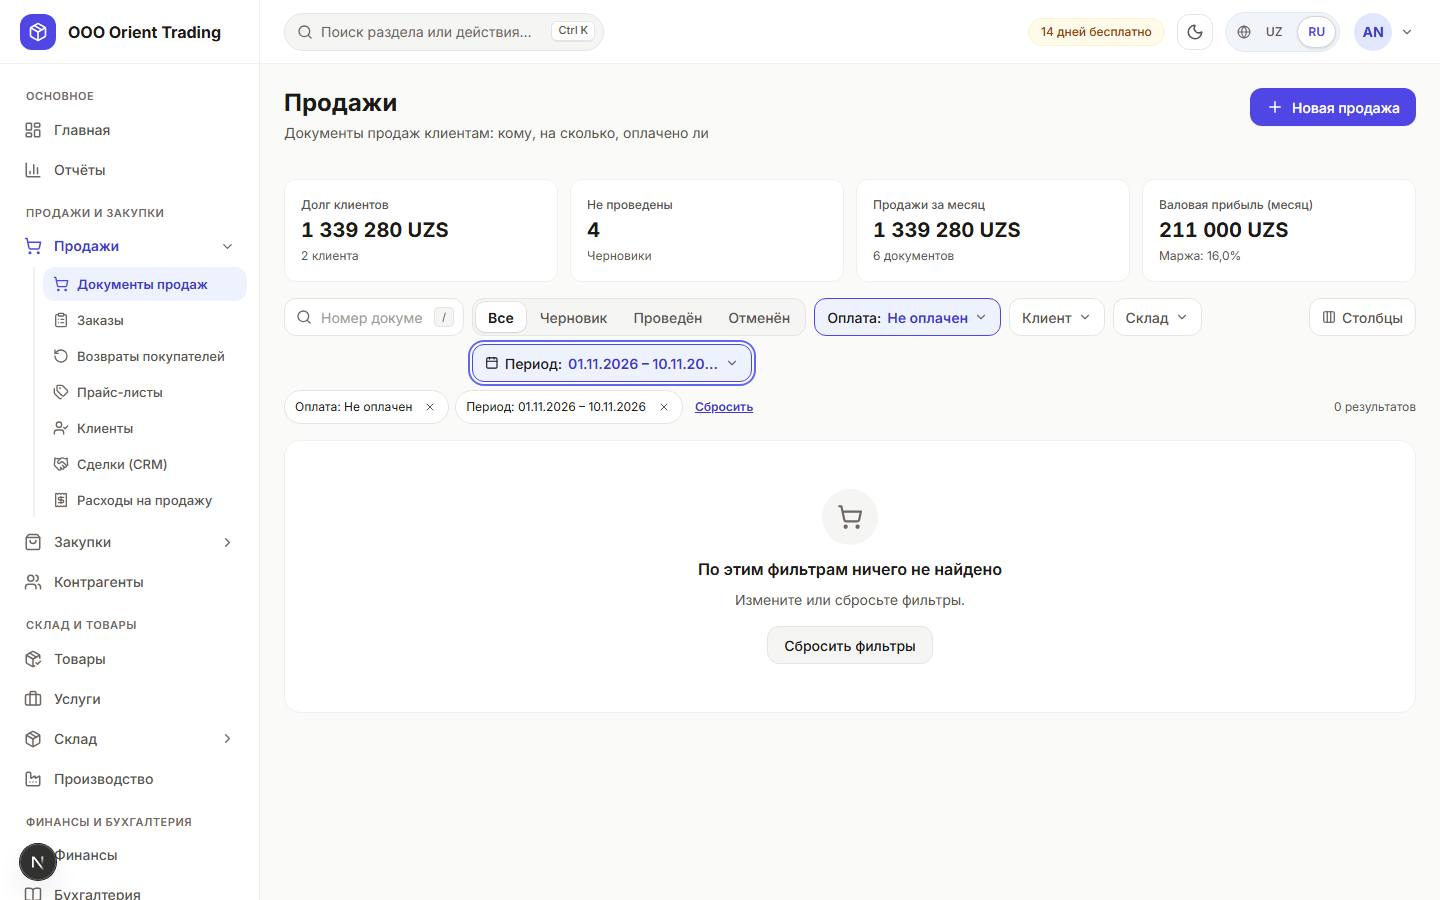
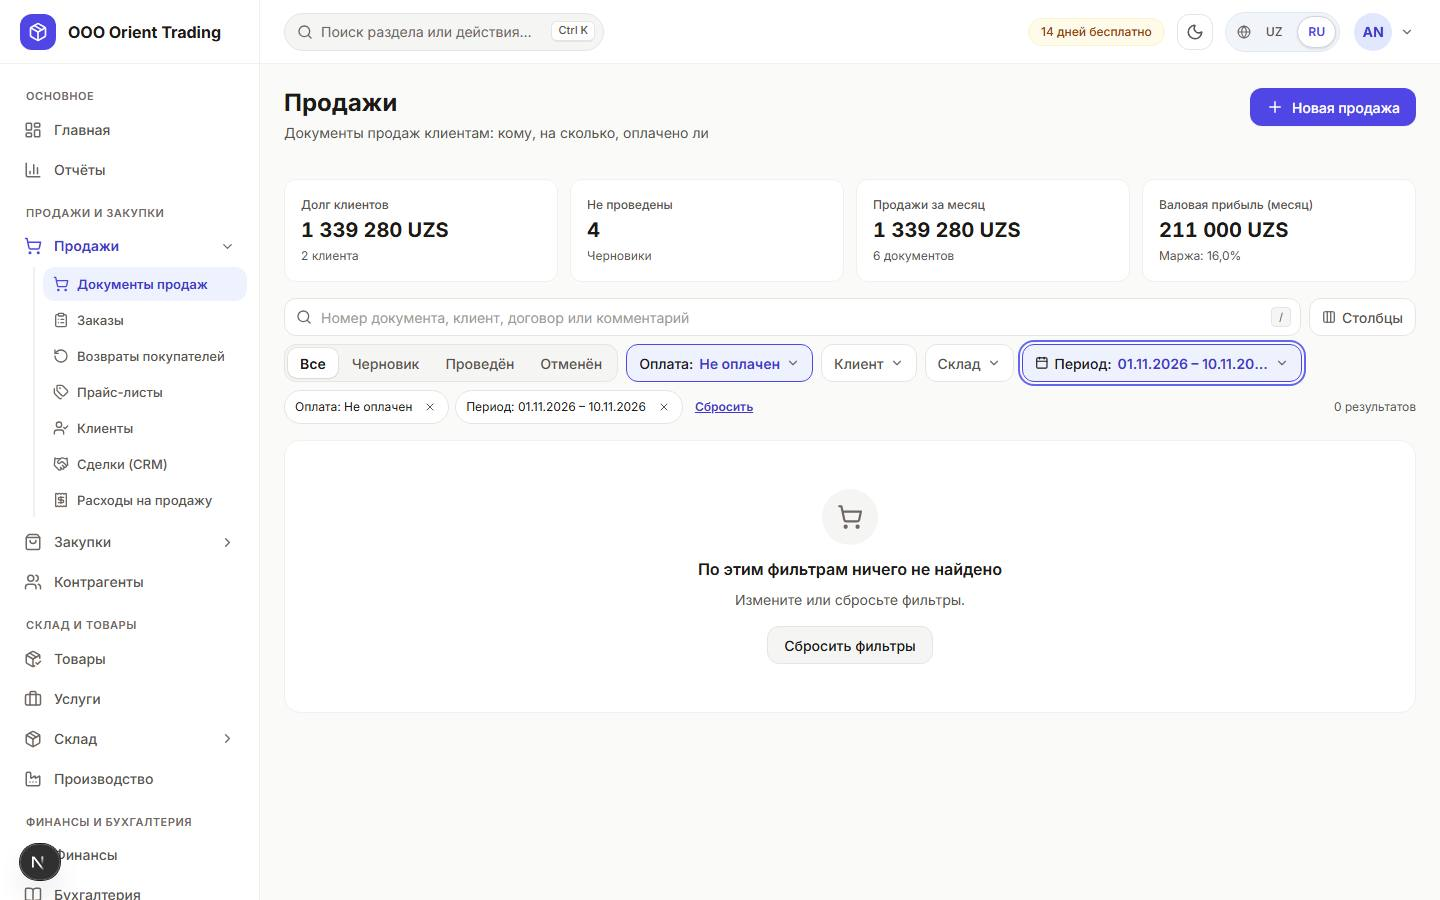
fix(ux): FilterBar measures whether it fits: one row, or search + Columns over all filters
Width breakpoints squeezed the search to 180px on pages with many filters
and left single filters alone on a line. The bar now measures: one row
when search (at least 240px), every filter and Columns fit; otherwise
search and Columns share the first line and all filters move together to
the second. Same rule at every width above phones. fc-verify /sales 50/50.

Changed region(s): [[0.3125, 0.3422, 0.9062, 0.4356], [0.25, 0.4044, 0.2812, 0.4356], [0.0312, 0.9333, 0.0625, 0.9644]]

diff --git a/frontend/src/components/ui/filters/FilterBar.tsx b/frontend/src/components/ui/filters/FilterBar.tsx
@@ -1,6 +1,6 @@
 'use client';
 
-import { useCallback, useEffect, useRef, useState, type ReactNode } from 'react';
+import { useCallback, useEffect, useLayoutEffect, useRef, useState, type ReactNode } from 'react';
 import { useTranslations } from 'next-intl';
 import { SlidersHorizontal } from 'lucide-react';
 import { SearchField } from '@/components/ui/SearchField';
@@ -26,6 +26,10 @@ export interface FilterBarProps<F extends FilterValues> {
   label?: string;
 }
 
+/** Search keeps at least this width on the filters' row; below it the filters move to their own line. */
+const SEARCH_MIN = 240;
+const PHONE_MAX = 640;
+
 const isTyping = (el: EventTarget | null) => {
   const node = el as HTMLElement | null;
   return Boolean(node && (node.isContentEditable || /^(INPUT|TEXTAREA|SELECT)$/.test(node.tagName)));
@@ -42,6 +46,8 @@ export function FilterBar<F extends FilterValues>({ state, defs, searchPlacehold
   const periodLabel = usePeriodLabel();
   const searchRef = useRef<HTMLInputElement>(null);
   const [sheetOpen, setSheetOpen] = useState(false);
+  const rowRef = useRef<HTMLDivElement>(null);
+  const [stacked, setStacked] = useState(false);
   const closeSheet = useCallback(() => setSheetOpen(false), []);
   const { values, defaults, set } = state;
 
@@ -57,6 +63,28 @@ export function FilterBar<F extends FilterValues>({ state, defs, searchPlacehold
     document.addEventListener('keydown', onKey);
     return () => document.removeEventListener('keydown', onKey);
   }, [searchPlaceholder]);
+
+  // One row when search (at least SEARCH_MIN), every filter and Columns fit; otherwise search + Columns on
+  // the first line and all filters together on the second. Filter widths are their natural widths, so the
+  // choice does not change them and cannot flip back and forth.
+  useLayoutEffect(() => {
+    const row = rowRef.current;
+    const controls = row?.querySelector<HTMLElement>('.fb-controls');
+    if (!row || !controls || typeof ResizeObserver === 'undefined') return;
+    const measure = () => {
+      if (window.innerWidth <= PHONE_MAX) return setStacked(false);
+      const gap = parseFloat(getComputedStyle(row).columnGap) || 0;
+      const kids = Array.from(controls.children) as HTMLElement[];
+      const filtersWidth = kids.reduce((w, k) => w + k.getBoundingClientRect().width, 0) + gap * Math.max(0, kids.length - 1);
+      const cols = row.querySelector<HTMLElement>('.fb-columns');
+      const need = (searchPlaceholder ? SEARCH_MIN + gap : 0) + filtersWidth + (cols ? cols.getBoundingClientRect().width + gap : 0);
+      setStacked(need > row.clientWidth + 0.5);
+    };
+    const ro = new ResizeObserver(measure);
+    ro.observe(row);
+    for (const k of Array.from(controls.children)) ro.observe(k);
+    return () => ro.disconnect();
+  }, [searchPlaceholder, defs.length]);
 
   const optionsOf = (d: FilterDef): FilterOption[] => {
     if (d.kind !== 'segmented' && d.kind !== 'select') return [];
@@ -76,8 +104,8 @@ export function FilterBar<F extends FilterValues>({ state, defs, searchPlacehold
   const filterDefs = defs;
 
   return (
-    <div className="fb" role="search" aria-label={label ?? t('filters')}>
-      <div className="fb-row">
+    <div className="fb" role="search" aria-label={label ?? t('filters')} data-stacked={stacked || undefined}>
+      <div className="fb-row" ref={rowRef}>
         {searchPlaceholder && (
           <SearchField inputRef={searchRef} value={state.search} onChange={state.setSearch} placeholder={searchPlaceholder} label={t('search')} shortcut="/" className="fb-search" />
         )}

diff --git a/frontend/src/app/globals.css b/frontend/src/app/globals.css
@@ -1437,17 +1437,17 @@ button.rd-signal:hover { border-color: var(--rd-tone, var(--color-border)); back
 .fb-search { flex: 1 1 220px !important; max-width: 340px; }
 .fb-controls { display: flex; flex-wrap: wrap; align-items: center; gap: var(--space-2); min-width: 0; }
 .fb-columns { margin-left: auto; }
-/* Tablet / narrow desktop: search on its own line, then all controls flow together with Columns ending the last line. */
-@media (min-width: 641px) and (max-width: 1399px) {
-  .fb-search { flex: 1 1 100% !important; max-width: none; }
-  .fb-controls { display: contents; }
-}
-/* Wide desktop: one row. Search gives way first (down to 180px); only if the controls still don't fit do they wrap inside their own group. */
-@media (min-width: 1400px) {
+/* Above phones: one row when everything fits (FilterBar measures it); otherwise data-stacked puts search
+   and Columns on the first line and all filters together on the second. */
+@media (min-width: 641px) {
   .fb-row { flex-wrap: nowrap; align-items: flex-start; }
-  .fb-search { flex: 1 1 200px !important; min-width: 180px !important; }
+  .fb-search { flex: 1 1 240px !important; min-width: 240px !important; }
   .fb-controls { flex: 0 1 auto; }
   .fb-columns { flex: none; }
+  .fb[data-stacked] .fb-row { flex-wrap: wrap; }
+  .fb[data-stacked] .fb-search { max-width: none; }
+  .fb[data-stacked] .fb-columns { order: 1; }
+  .fb[data-stacked] .fb-controls { order: 2; flex: 1 1 100%; }
 }
 .fb-btn {
   display: inline-flex; align-items: center; gap: 6px; height: 38px; padding: 0 12px; max-width: 280px;
